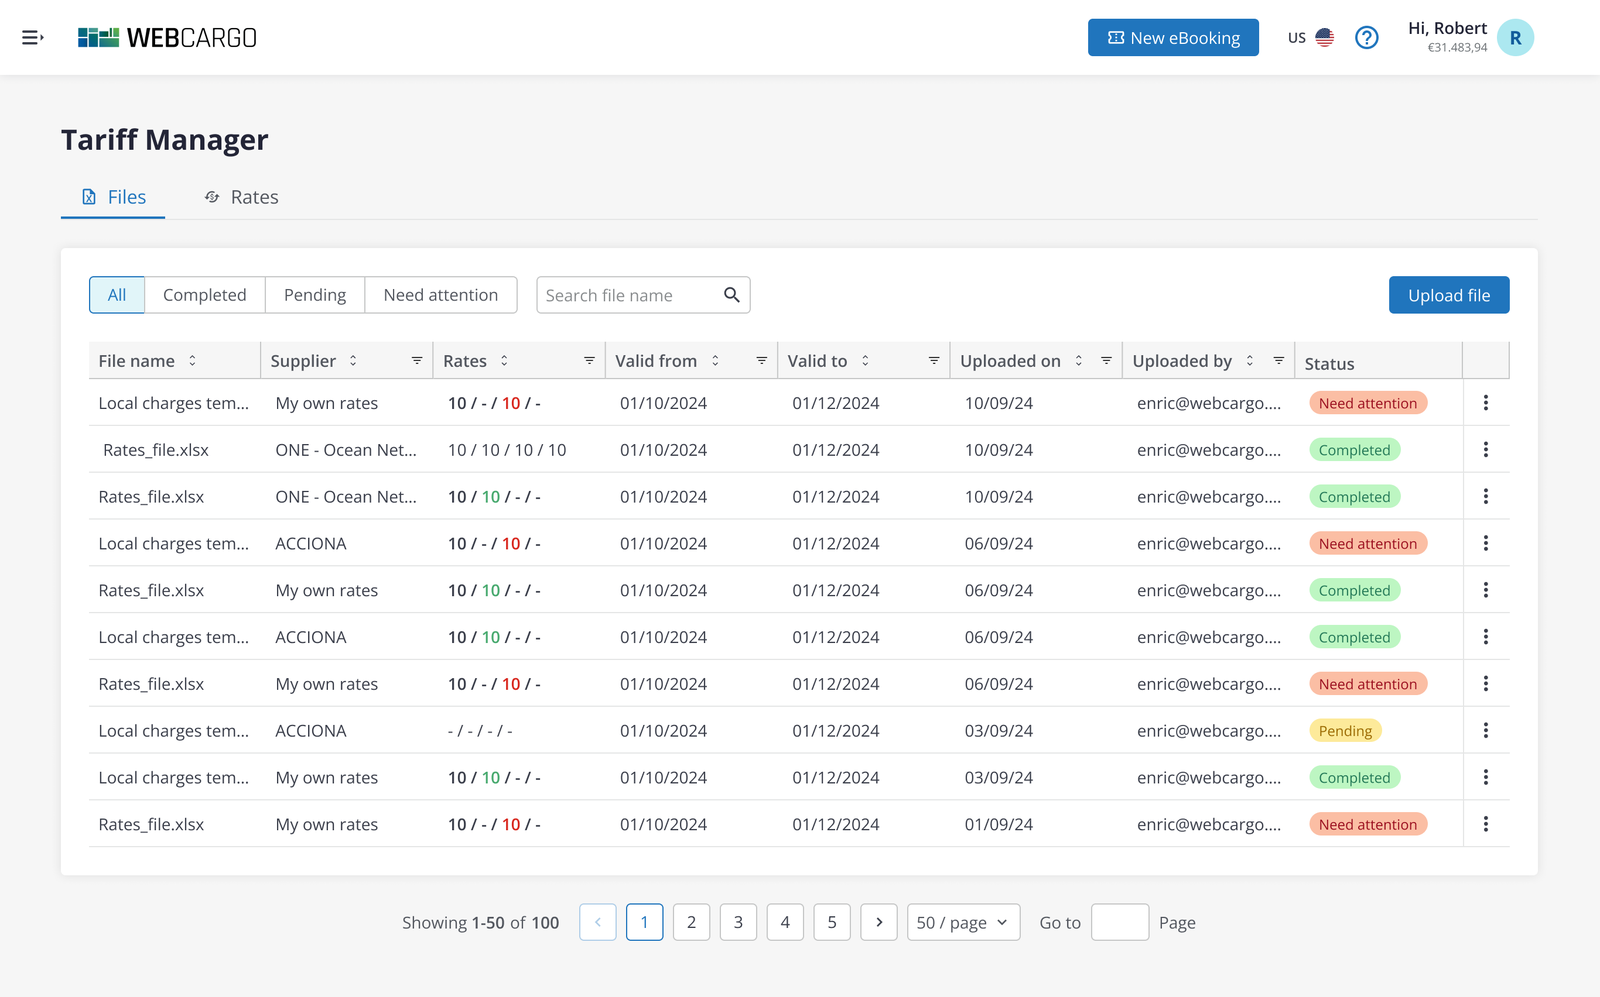
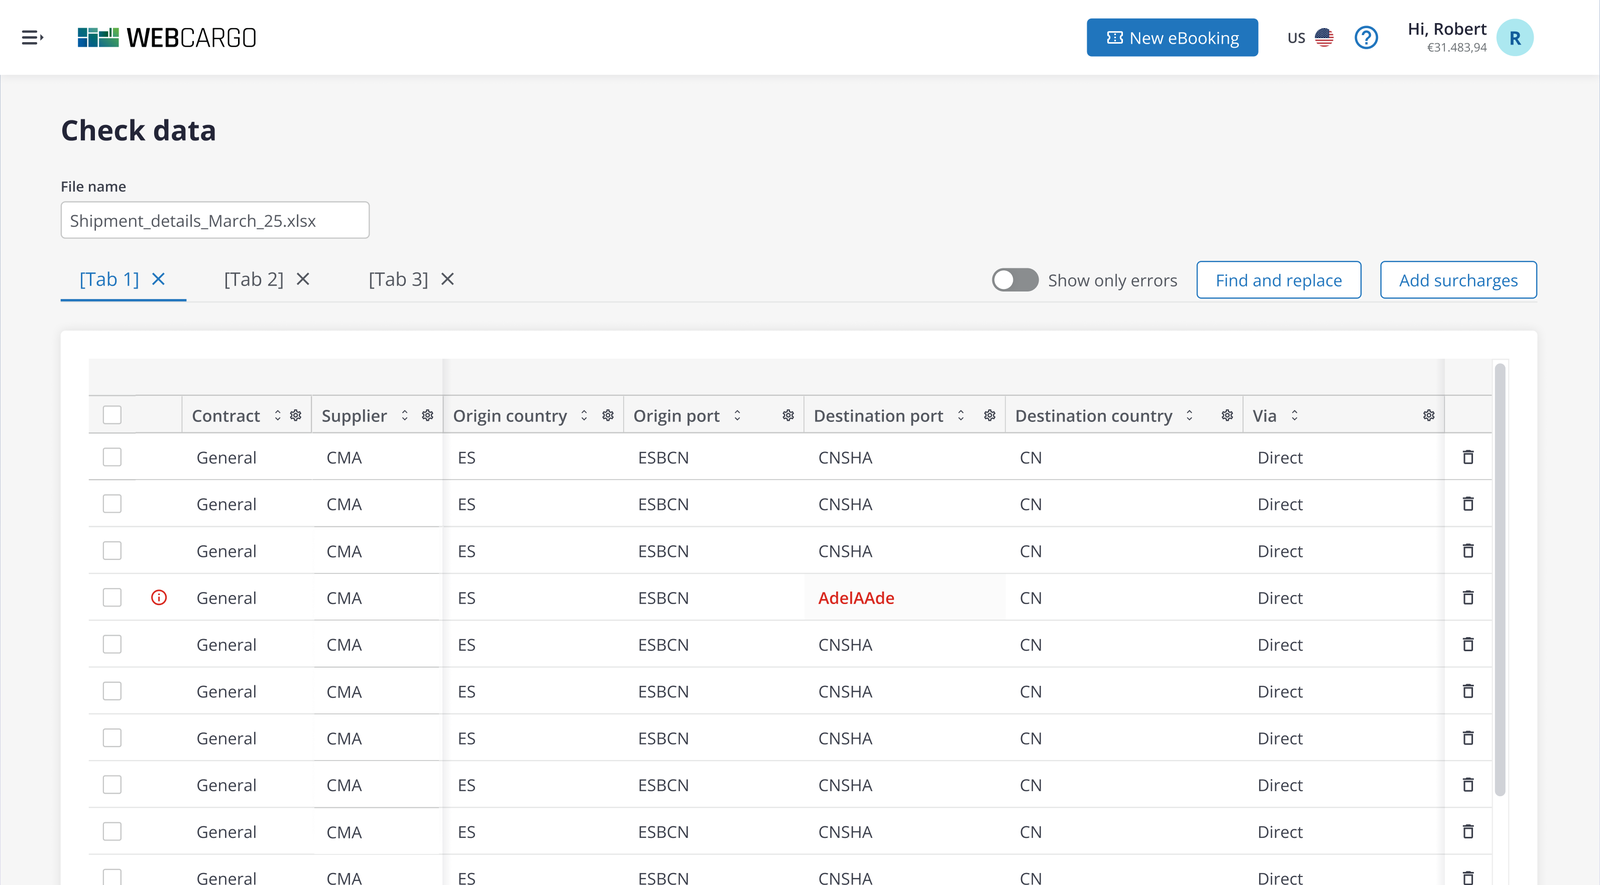
Wizard cover shows the Check data screen with the supplier dropdown opening on hover; blur the page behind the notifications pop-up
Claude-Session: https://claude.ai/code/session_01TzBzfV87exMVWc8euzdj78

diff --git a/index.html b/index.html
@@ -231,17 +231,17 @@
   /* Lema de la portada de SWAP como texto, para poder traducirlo */
   .swap-cover { container-type: inline-size; }
   .swap-tagline { color: #fff; font-weight: 600; font-size: 1.94cqw; line-height: 1; white-space: nowrap; }
-  .wz-dim { background: rgba(10, 20, 50, 0); transition: background 0.4s ease; }
-  .wz-zone { opacity: 0; transform: scale(0.92); transition: opacity 0.4s ease, transform 0.5s cubic-bezier(0.22, 1, 0.36, 1); }
+  .wz-drop { opacity: 0; transition: opacity 0.25s ease; }
+  .ns-win { transition: filter 0.4s ease; }
   .ns-panel { opacity: 0; transform: scale(0.9); transform-origin: 30% 30%; transition: opacity 0.3s ease, transform 0.45s cubic-bezier(0.34, 1.4, 0.64, 1); }
   @media (hover: hover) {
-    .group:hover .wz-dim { background: rgba(10, 20, 50, 0.28); }
-    .group:hover .wz-zone { opacity: 1; transform: none; }
+    .group:hover .wz-drop { opacity: 1; }
     .group:hover .ns-panel { opacity: 1; transform: none; }
+    .group:hover .ns-win { filter: blur(3px) brightness(0.92); }
   }
-  .is-active .wz-dim { background: rgba(10, 20, 50, 0.28); }
-  .is-active .wz-zone { opacity: 1; transform: none; }
+  .is-active .wz-drop { opacity: 1; }
   .is-active .ns-panel { opacity: 1; transform: none; }
+  .is-active .ns-win { filter: blur(3px) brightness(0.92); }
   /* Portada de Qonto: en reposo, una sola pantalla centrada. Al pasar el ratón (o al hacer scroll en móvil)
      se desplaza un poco a la izquierda y asoman por detrás, a la derecha, los dos pasos siguientes */
   .qonto-cover .qc-step { position: absolute; height: auto; border-radius: 0.375rem; transition: transform 0.7s cubic-bezier(0.22, 1, 0.36, 1), opacity 0.5s ease; }
@@ -415,7 +415,7 @@
         </article>
 
         <!-- Wizard for Rate Management -->
-        <!-- Portada con el mismo esquema que Vertical Menu: al pasar el ratón aparece la zona para soltar el archivo -->
+        <!-- Portada con el mismo esquema que Vertical Menu: al pasar el ratón se abre el desplegable para corregir el proveedor -->
         <article class="reveal group" data-category="freightos" data-scroll-anim>
           <a href="work/wizard-rate-management.html" class="focus-ring block rounded-2xl">
             <div class="vm-cover relative aspect-[4/3] rounded-2xl mb-6 overflow-hidden">
@@ -424,9 +424,8 @@
                 <p class="vm-cover-sub" data-i18n="project3.coverSub">Carga masiva de tarifas</p>
               </div>
               <div class="absolute left-[44%] top-[20%] w-[110%] rounded-[10px] overflow-hidden shadow-[0_30px_60px_rgba(0,0,0,0.45)]">
-                <img src="work/wizard-rate-management-cover-window.png" alt="Tariff Manager: listado de archivos de tarifas con su estado de validación" class="block w-full h-auto">
-                <div class="wz-dim absolute inset-0" aria-hidden="true"></div>
-                <img src="work/wizard-rate-management-cover-dropzone.png" alt="" aria-hidden="true" class="wz-zone absolute left-[14%] top-[34%] w-[21.4%] h-auto rounded-md shadow-[0_16px_40px_rgba(0,0,0,0.25)]">
+                <img src="work/wizard-rate-management-cover-window.png?v=2" alt="Asistente de gestión de tarifas: revisión de los datos del archivo antes de subirlo" class="block w-full h-auto">
+                <img src="work/wizard-rate-management-cover-dropdown.png" alt="" aria-hidden="true" class="wz-drop absolute left-0 top-[54.195%] w-full h-auto">
               </div>
             </div>
           </a>
@@ -461,7 +460,7 @@
                 <p class="vm-cover-sub" data-i18n="project2.coverSub">Alertas por email</p>
               </div>
               <div class="absolute left-[44%] top-[20%] w-[100%] rounded-[10px] overflow-hidden shadow-[0_30px_60px_rgba(0,0,0,0.45)]">
-                <img src="work/notification-system-cover-window.png" alt="Contactos de un envío con el aviso de notificaciones activas" class="block w-full h-auto">
+                <img src="work/notification-system-cover-window.png" alt="Contactos de un envío con el aviso de notificaciones activas" class="ns-win block w-full h-auto">
               </div>
               <img src="work/notification-system-cover-panel.png" alt="" aria-hidden="true" class="ns-panel absolute left-[52%] top-[27%] w-[52%] h-auto rounded-l-[10px] shadow-[-20px_0_50px_rgba(0,0,0,0.35)]">
               <span class="absolute top-3 left-3 w-12 h-12 rounded-full bg-paper/90 backdrop-blur-sm text-ink flex items-center justify-center shadow-sm" aria-label="Proyecto protegido con contraseña">
